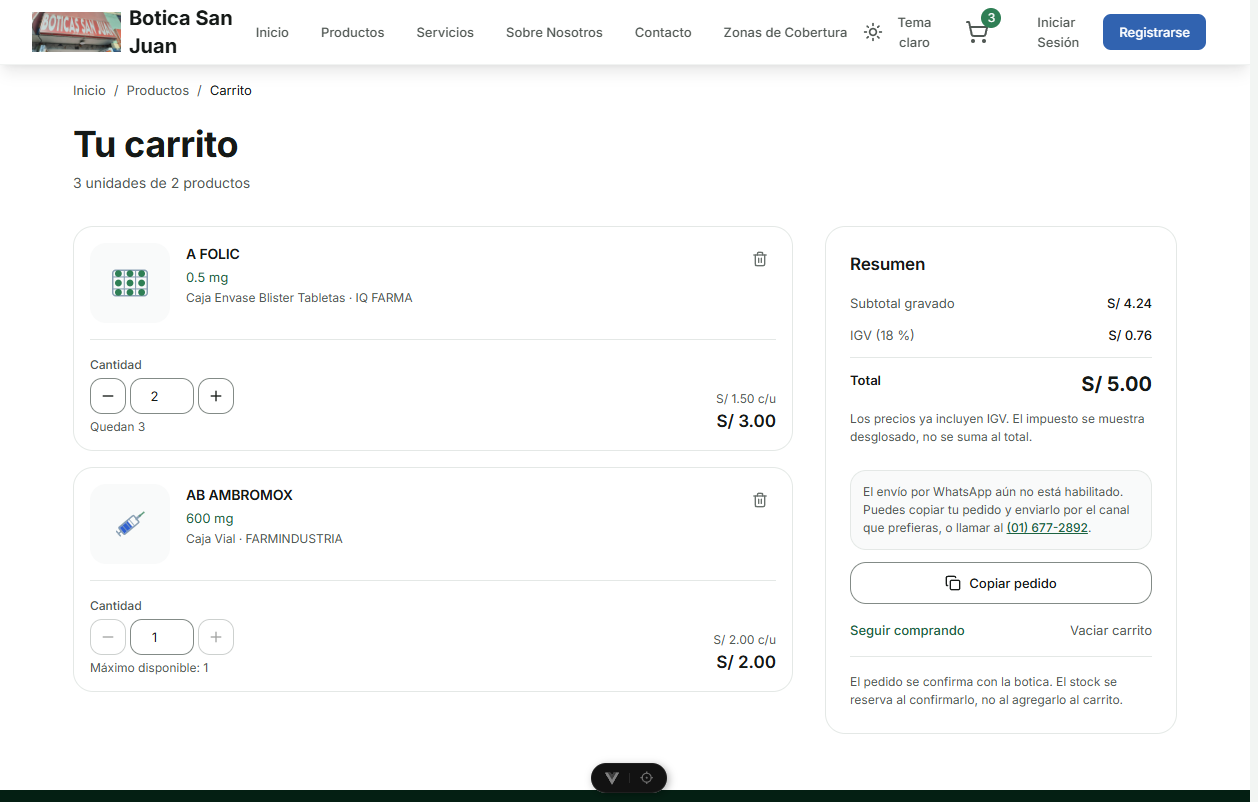
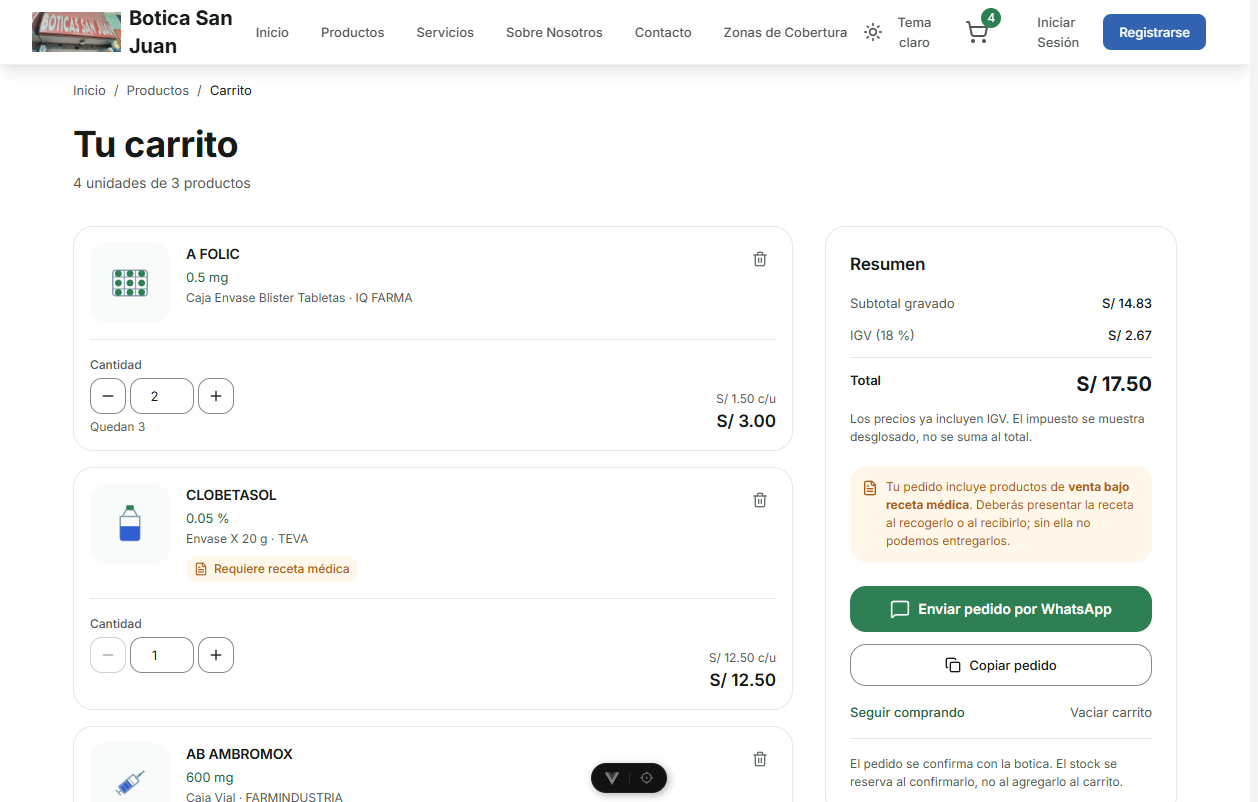
feat(catalogo): marca de venta bajo receta y canal de WhatsApp configurable
De 884 productos, CERO estaban marcados como venta bajo receta, asi que el aviso del carrito —implementado y con pruebas— no se disparaba nunca y no habia forma de verlo funcionar. RecetaMedicaDemoSeeder marca 34 productos de cinco familias (antibioticos sistemicos y corticoides) por principio activo, no por id: los ids no sobreviven a otro entorno.

Es marcacion de DEMOSTRACION, no la fuente regulatoria: esa es el catalogo DIGEMID, que hoy tiene cinco filas de demo. Cuando se cargue, el seeder sobra y debe retirarse.

VITE_BOTICA_WHATSAPP queda documentada en .env.example con el formato que espera wa.me y el aviso de que el fijo no vale. La captura confirma la alerta de receta y el enlace de salida funcionando.

diff --git a/botica-san-juan-backend/database/seeders/RecetaMedicaDemoSeeder.php b/botica-san-juan-backend/database/seeders/RecetaMedicaDemoSeeder.php
@@ -1,0 +1,104 @@
+<?php
+
+namespace Database\Seeders;
+
+use App\Models\Producto;
+use Illuminate\Database\Seeder;
+
+/**
+ * Marca como venta bajo receta un conjunto reducido de familias terapéuticas.
+ *
+ *   php artisan db:seed --class=RecetaMedicaDemoSeeder
+ *
+ * ESTO NO ES LA FUENTE REGULATORIA. LÉASE ANTES DE USARLO.
+ *
+ * Qué producto se vende bajo receta en el Perú lo determina DIGEMID, y el
+ * sistema ya sabe leerlo del sitio correcto: cuando un producto tiene
+ * `codigo_digemid`, `ProductoController::validateDigemidCompliance()` copia
+ * `requiere_receta` desde `digemid_catalogos` automáticamente. Ese es el camino
+ * bueno.
+ *
+ * El problema es que hoy esa tabla tiene cinco filas de demostración y un solo
+ * producto del catálogo las cruza. Resultado medido: de 884 productos, **cero**
+ * estaban marcados, así que la advertencia de receta del carrito —implementada y
+ * cubierta por pruebas— no se disparaba nunca y no había forma de verla
+ * funcionar ni de capturarla como evidencia.
+ *
+ * Este seeder cubre ese hueco de datos de forma acotada y reversible, para poder
+ * demostrar el comportamiento. **Cuando se cargue el catálogo DIGEMID real, este
+ * seeder sobra y debe retirarse**: mantener dos fuentes para el mismo dato es
+ * exactamente el problema que el proyecto ya tuvo con el WhatsApp del portal.
+ *
+ * POR QUÉ POR NOMBRE Y NO POR ID
+ *
+ * Los identificadores no sobreviven a un entorno nuevo: la fusión de duplicados
+ * ya movió cuáles eran las filas vivas, y en producción serán otros. Marcando
+ * por principio activo, el seeder dice lo que quiere decir —"los antibióticos
+ * sistémicos van bajo receta"— y sigue siendo correcto allí donde se ejecute.
+ *
+ * LAS FAMILIAS ELEGIDAS, Y POR QUÉ ESTAS
+ *
+ * No es una lista exhaustiva ni pretende serlo: son tres grupos donde la
+ * exigencia de receta no admite discusión, de modo que marcarlos no introduce
+ * una afirmación dudosa en el catálogo.
+ */
+class RecetaMedicaDemoSeeder extends Seeder
+{
+    /**
+     * Principio activo => motivo. El motivo no se guarda en la base; está aquí
+     * para que quien lea el seeder sepa por qué entra cada familia y pueda
+     * discutirlo con criterio.
+     */
+    private const FAMILIAS = [
+        'AMOXICILINA'   => 'Antibiótico sistémico: la dispensación sin receta es el motor de la resistencia antimicrobiana.',
+        'AZITROMICINA'  => 'Antibiótico macrólido sistémico.',
+        'CIPROFLOXACINO' => 'Antibiótico fluoroquinolona sistémica.',
+        'CLOBETASOL'    => 'Corticoide tópico de potencia muy alta: el uso prolongado sin control atrofia la piel.',
+        'DEXAMETASONA'  => 'Corticoide sistémico.',
+    ];
+
+    public function run(): void
+    {
+        $totalMarcados = 0;
+
+        foreach (self::FAMILIAS as $principio => $motivo) {
+            /* `requiere_receta` se filtra en la consulta para que el seeder sea
+               idempotente de verdad: volver a ejecutarlo no reescribe filas que
+               ya estaban marcadas, y el recuento informa de lo que CAMBIÓ, no de
+               lo que coincide con el patrón. */
+            $marcados = Producto::query()
+                ->where('nombre', 'like', "%{$principio}%")
+                ->where(function ($q) {
+                    $q->where('requiere_receta', false)->orWhereNull('requiere_receta');
+                })
+                ->update(['requiere_receta' => true]);
+
+            $enTotal = Producto::where('nombre', 'like', "%{$principio}%")->count();
+            $totalMarcados += $marcados;
+
+            $this->command?->line(sprintf(
+                '  %-15s %2d productos (%d nuevos)   %s',
+                $principio,
+                $enTotal,
+                $marcados,
+                $motivo
+            ));
+        }
+
+        $bajoReceta = Producto::where('requiere_receta', true)->count();
+        $catalogo   = Producto::count();
+
+        $this->command?->newLine();
+        $this->command?->info(sprintf(
+            'Venta bajo receta: %d de %d productos del catálogo (%.1f %%). Marcados en esta ejecución: %d.',
+            $bajoReceta,
+            $catalogo,
+            $catalogo > 0 ? $bajoReceta / $catalogo * 100 : 0,
+            $totalMarcados
+        ));
+        $this->command?->comment(
+            'Marcación de demostración. La fuente real es el catálogo DIGEMID; '
+            .'cuando se cargue, retirar este seeder.'
+        );
+    }
+}
